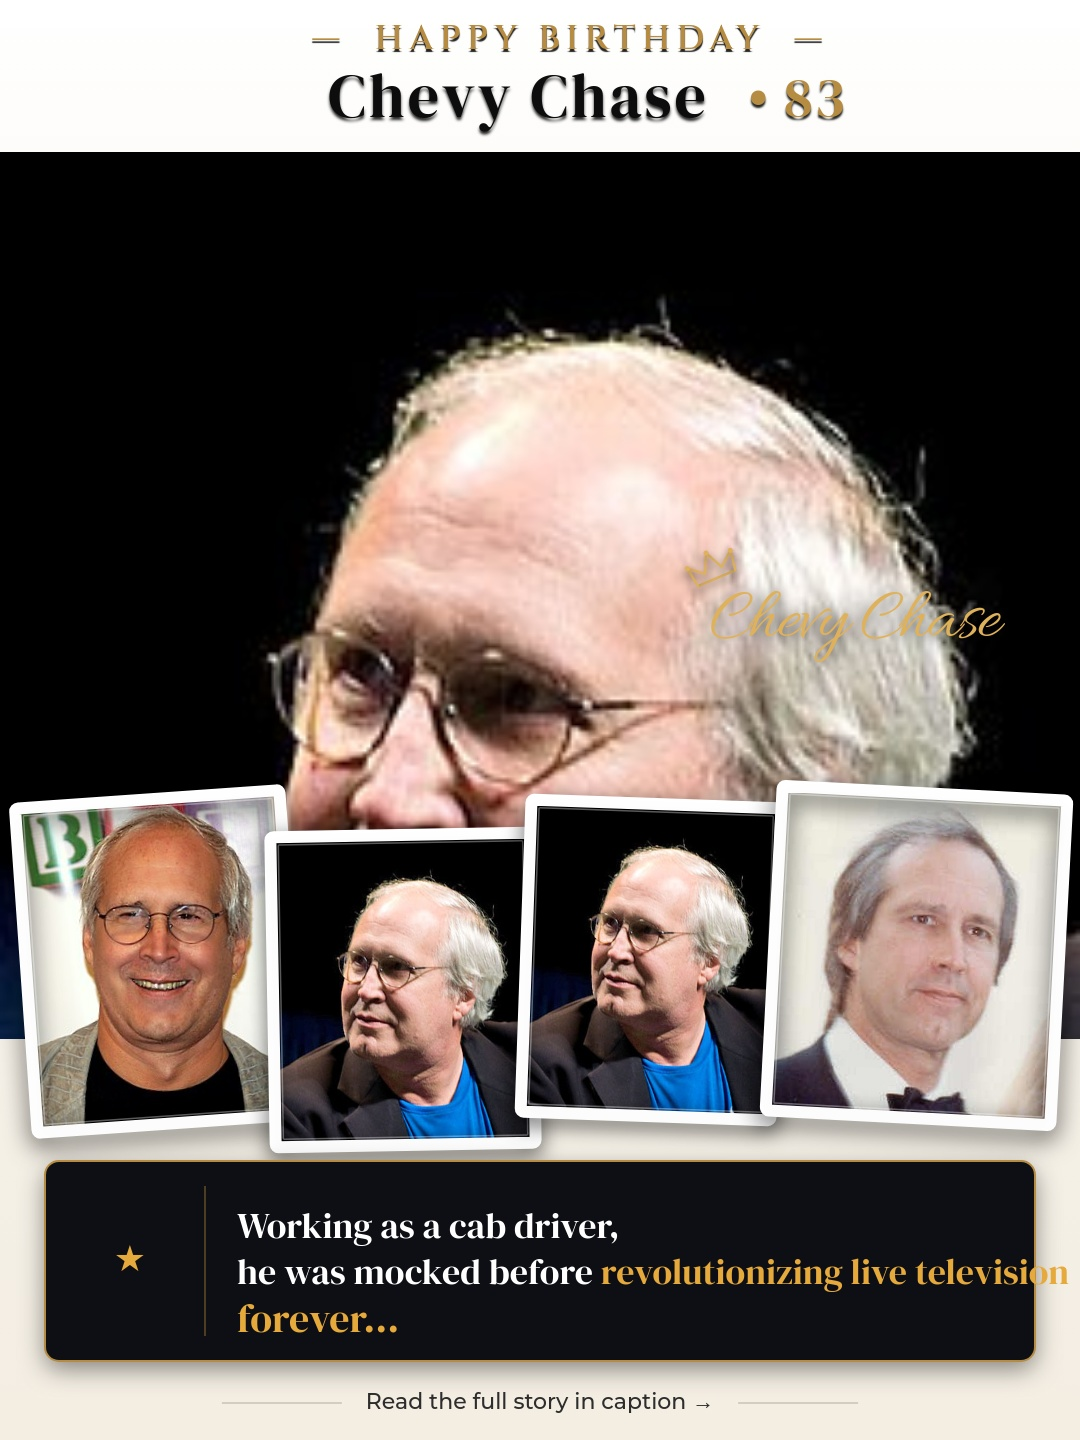
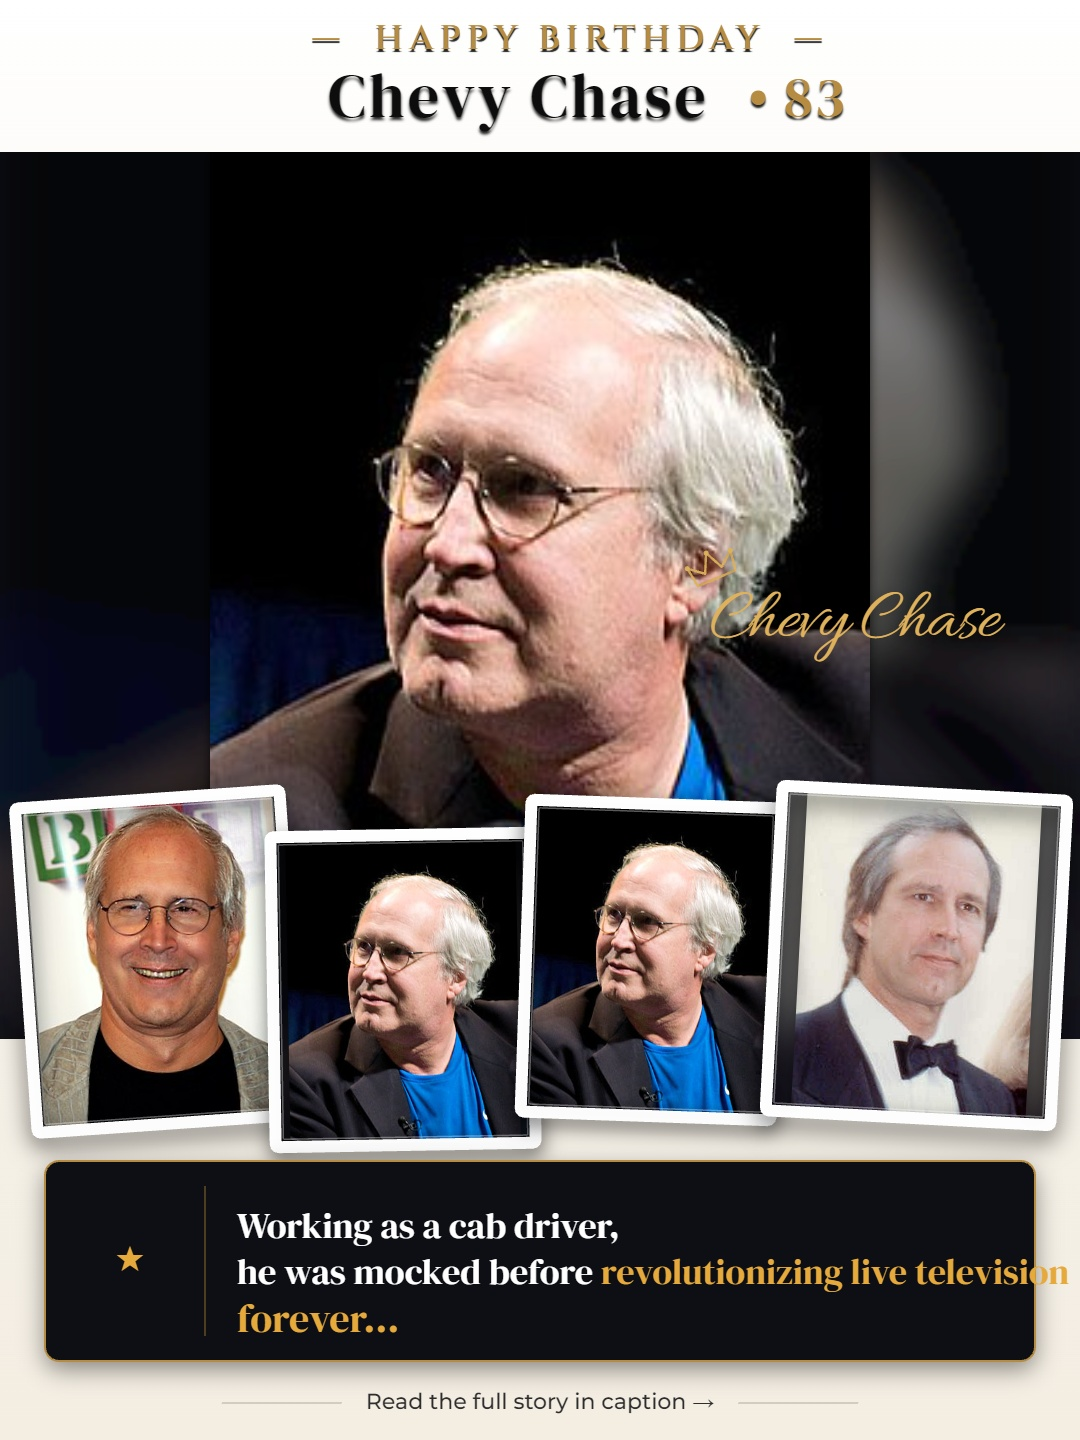
fix(framing): fit photos at natural unzoomed scale inside hero and milestone frames with ambient backdrop fill

diff --git a/collage-maker/app.js b/collage-maker/app.js
@@ -985,28 +985,46 @@
     const panX = frame.imgPanX || 0;
     const panY = frame.imgPanY || 0;
 
-    // Calculate aspect ratio covering
+    // Calculate aspect ratio
     const imgAspect = img.width / img.height;
     const frameAspect = frameW / frameH;
 
+    // CONTAIN / FIT: Prevent artificial zooming in so the complete subject remains natural size
     let drawW, drawH;
     if (imgAspect > frameAspect) {
-      drawH = frameH * scale;
-      drawW = drawH * imgAspect;
-    } else {
+      // Wider than frame -> fit to frame width
       drawW = frameW * scale;
       drawH = drawW / imgAspect;
+    } else {
+      // Taller than frame -> fit to frame height so full person and head are preserved
+      drawH = frameH * scale;
+      drawW = drawH * imgAspect;
+    }
+
+    // If photo does not fill the entire frame, render an aesthetic ambient backdrop
+    if (drawW < frameW - 2 || drawH < frameH - 2) {
+      context.save();
+      let bgW, bgH;
+      if (imgAspect > frameAspect) {
+        bgH = frameH;
+        bgW = bgH * imgAspect;
+      } else {
+        bgW = frameW;
+        bgH = bgW / imgAspect;
+      }
+      const bgX = frameX + (frameW - bgW) / 2;
+      const bgY = frameY + (frameH - bgH) / 2;
+
+      try {
+        context.filter = 'blur(24px) brightness(0.9)';
+      } catch (e) {}
+      context.globalAlpha = 0.55;
+      context.drawImage(img, bgX - 10, bgY - 10, bgW + 20, bgH + 20);
+      context.restore();
     }
 
     const drawX = frameX + (frameW - drawW) / 2 + panX;
-    
-    // Top-align vertical portrait photos so heads, hair, and faces are never cut off from the top
-    let drawY;
-    if (drawH > frameH) {
-      drawY = frameY + panY;
-    } else {
-      drawY = frameY + (frameH - drawH) / 2 + panY;
-    }
+    const drawY = frameY + (frameH - drawH) / 2 + panY;
 
     context.drawImage(img, drawX, drawY, drawW, drawH);
   }
